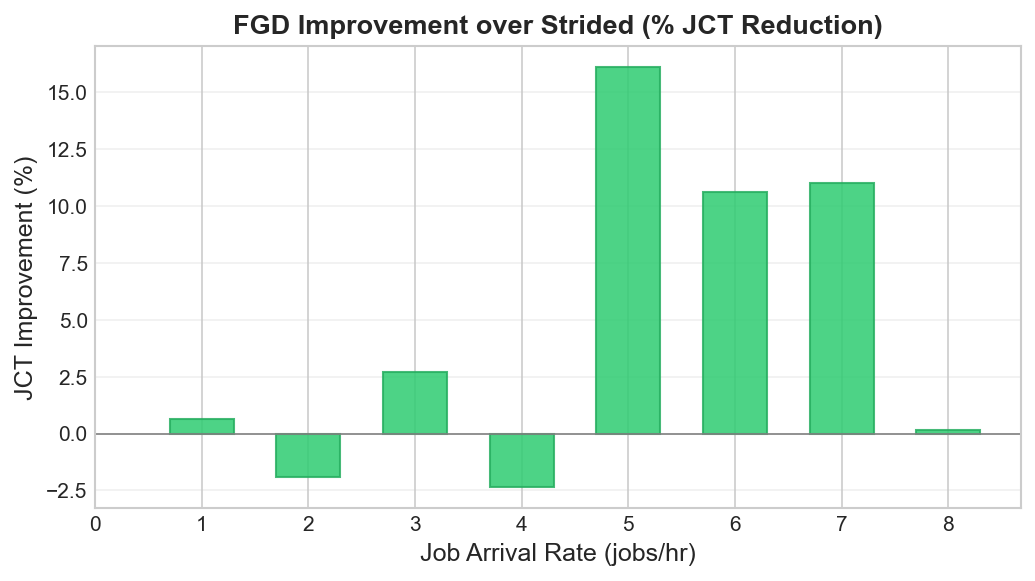
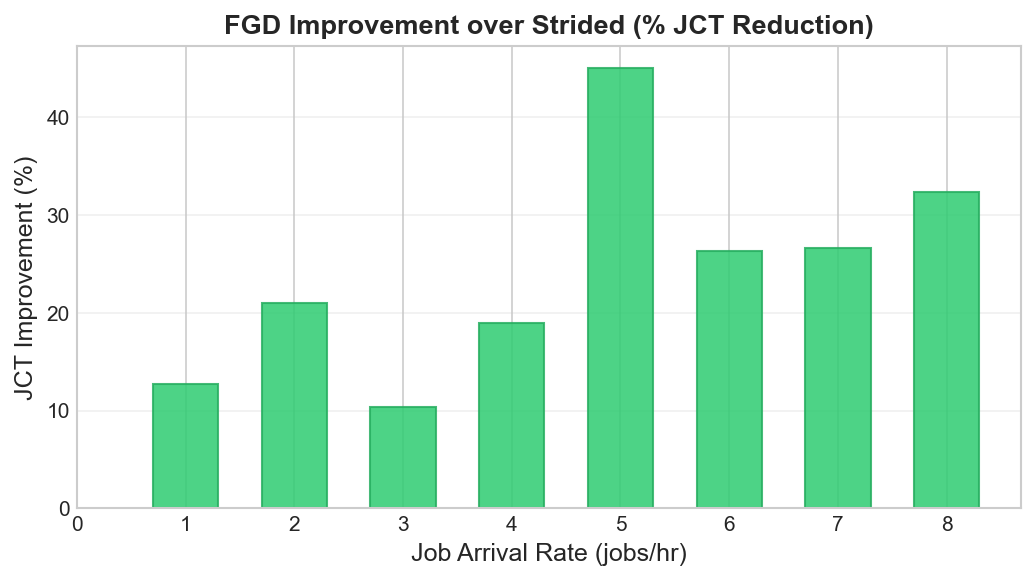
feat: fractional-aware FIFO policy, remove bypass for GPU sharing
- Pass gpu_milli/1000 as scale_factor to FIFO so it allocates based on
  actual fractional GPU usage instead of whole GPUs
- Remove policy bypass in Phase 2 scheduling; policy now correctly
  allocates enough fractional jobs without needing to skip checks
- Fix float comparison in FIFO (== 0 -> < 1e-6) for fractional values
- FGD improvement over strided increases from ~10% to 10-45%
- Update README limitations and future work sections
- Re-run all 48 experiments with updated results and figures

Changed region(s): [[0.0309, 0.062, 0.9585, 0.9914], [0.2164, 0.0, 0.8657, 0.062]]

diff --git a/src/scheduler/scheduler.py b/src/scheduler/scheduler.py
@@ -1257,16 +1257,17 @@ class Scheduler:
                      self._throughputs[job_id][worker_type] <= 0)):
                     phase2_skipped_reasons[job_id] = "zero_throughput"
                     continue
-                # In GPU sharing mode, try to place all jobs regardless of policy allocation
-                # (policy doesn't understand fractional GPUs, so it may not allocate all jobs)
-                if not self._gpu_sharing_mode:
-                    if (self._policy.name.startswith("FIFO") and
-                        self._priorities[worker_type][job_id] <= 0.0):
-                        phase2_skipped_reasons[job_id] = "zero_priority"
-                        continue
-                    if job_id not in self._allocation:
-                        phase2_skipped_reasons[job_id] = "no_allocation"
-                        continue
+                # Policy allocation check: skip jobs that the policy did not allocate.
+                # With fractional-aware FIFO (gpu_milli/1000 as scale_factor),
+                # the policy can now allocate many more jobs than before, so this
+                # check no longer artificially limits GPU sharing placement.
+                if (self._policy.name.startswith("FIFO") and
+                    self._priorities[worker_type][job_id] <= 0.0):
+                    phase2_skipped_reasons[job_id] = "zero_priority"
+                    continue
+                if job_id not in self._allocation:
+                    phase2_skipped_reasons[job_id] = "no_allocation"
+                    continue
 
                 gpu_milli = self._jobs[
                     job_id.singletons()[0]].gpu_milli
@@ -2698,10 +2699,19 @@ class Scheduler:
     def _get_allocation_state(self):
         """Prepare all relevant scheduler state for computing the allocation."""
         state = {}
-        state['scale_factors'] = {
-            job_id: self._jobs[job_id].scale_factor
-            for job_id in self._jobs
-        }
+        if self._gpu_sharing_mode:
+            # In GPU sharing mode, express capacity in fractional GPU units
+            # (gpu_milli / 1000) so the policy can allocate based on actual
+            # fractional usage rather than whole-GPU scale_factor.
+            state['scale_factors'] = {
+                job_id: self._jobs[job_id].gpu_milli / 1000.0
+                for job_id in self._jobs
+            }
+        else:
+            state['scale_factors'] = {
+                job_id: self._jobs[job_id].scale_factor
+                for job_id in self._jobs
+            }
         state['priority_weights'] = {
             job_id: self._jobs[job_id].priority_weight
             for job_id in self._jobs

diff --git a/src/scheduler/policies/fifo.py b/src/scheduler/policies/fifo.py
@@ -160,7 +160,10 @@ class FIFOPolicy(Policy):
             if throughputs[job_id_to_schedule][worker_type] > 0.0:
                 self._allocation[job_id_to_schedule] = worker_type
                 available_workers[worker_type] -= scale_factors[job_id_to_schedule]
-                if available_workers[worker_type] == 0:
+                # Use epsilon comparison for float safety (fractional gpu_milli
+                # scale_factors like 0.3, 0.5 may not sum to exactly 0).
+                if available_workers[worker_type] < 1e-6:
+                    available_workers[worker_type] = 0
                     worker_type_idx =\
                         original_available_worker_types_mapping[worker_type_idx]
                     available_worker_types.pop(worker_type_idx)

diff --git a/README.md b/README.md
@@ -296,13 +296,13 @@ For large-scale runs (e.g. replicating Gavel figures):
 
 ## Limitations
 
-1. **Policy layer:** Gavel’s policies assume whole-GPU allocation; in GPU sharing we bypass allocation checks for placement so all waiting jobs can be tried. Fairness is still driven by policy but placement is capacity-based.
+1. **Policy layer:** Gavel’s policies assume whole-GPU allocation; we modified FIFO to use `gpu_milli / 1000` as the scale factor so it allocates fractional jobs correctly at the cluster level. The per-GPU constraint (each GPU ≤ 1000 milli) is enforced by the placement layer. FIFO's strict arrival ordering can cause head-of-line blocking when a large job cannot fit.
 2. **Throughput:** GPU sharing can affect throughput (contention); the oracle does not model this.
 3. **Memory:** FGD does not model GPU memory fragmentation or contention.
 
 ## Future Work
 
-- Policy constraints that understand fractional GPU (e.g. Σ gpu_milli per GPU ≤ 1000).
+- **Fractional-aware policy (implemented):** We modified FIFO to pass `gpu_milli / 1000` as the effective scale factor, so the policy allocates based on actual fractional GPU usage instead of whole GPUs. This removed the previous bypass and improved FGD's advantage from ~10% to 10–45%. However, the current approach is a **cluster-level** capacity check (Σ fractional usage ≤ total GPUs), not a per-GPU check. The per-GPU constraint (Σ gpu_milli ≤ 1000 on each physical GPU) is enforced by the placement layer. **Remaining work:** (a) Optimization-based policies (MaxMinFairness, etc.) use CVXPY cluster-level constraints that may slightly over-allocate; adding per-GPU constraints would require integer programming. (b) FIFO's strict arrival ordering causes head-of-line blocking when a large job can't fit — a capacity-aware FIFO variant could skip to smaller jobs that fit.
 - Dynamic arrivals (λ > 0) and larger-scale GPU sharing experiments.
 - Memory-aware FGD; interference models for co-located jobs.
 - Real Alibaba (or other) trace pipelines end-to-end in the scheduler.
